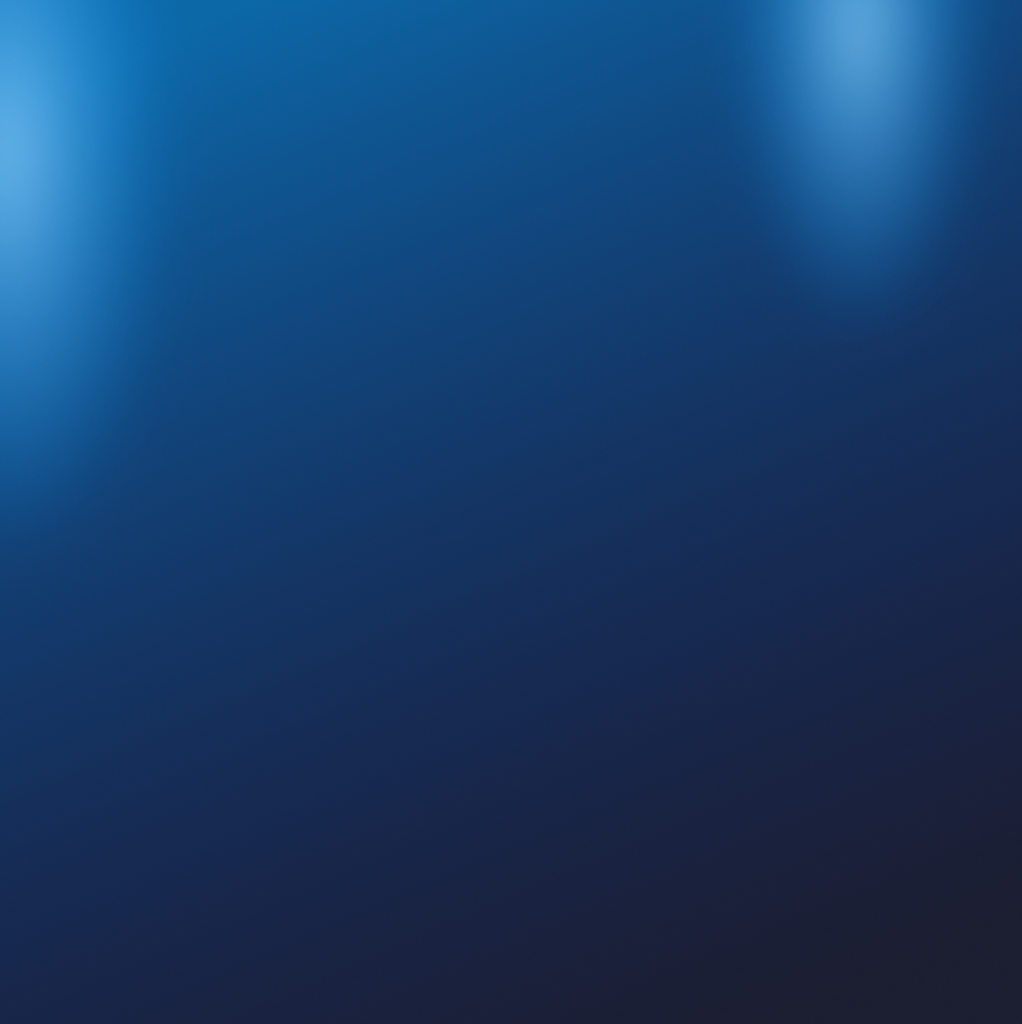
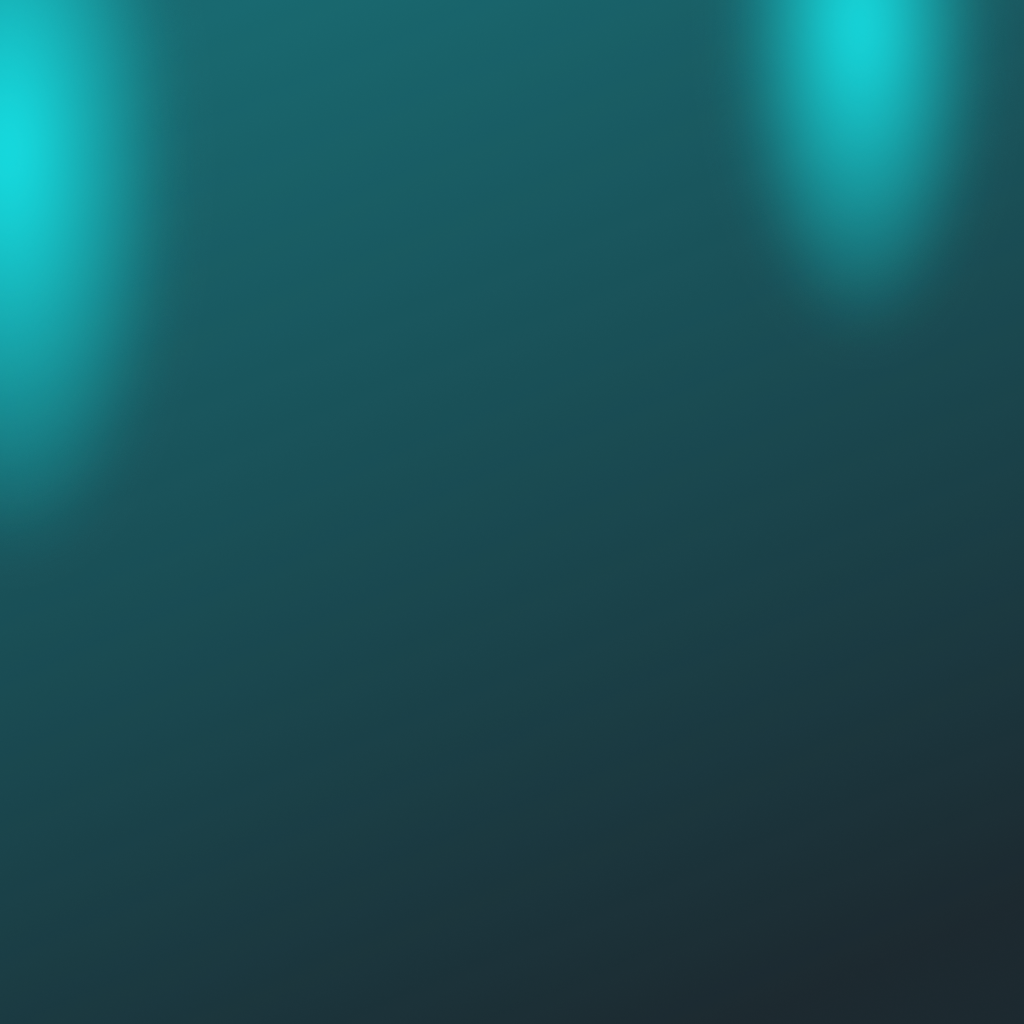
Login page BG and other changes

diff --git a/frontend/src/views/CompilanceBuilders/Step1/Step1.js b/frontend/src/views/CompilanceBuilders/Step1/Step1.js
@@ -23,6 +23,7 @@ import withReactContent from 'sweetalert2-react-content';
 
 // ** Modals
 import SelectFramewroksModal from "../modals/SelectFramewroksModal";
+import CompliancePrioritiesList from "../modals/CompliancePrioritiesList";
 
 // ** PNG Icons
 import infoIcon from "assets/img/info.png";
@@ -50,6 +51,7 @@ const Step1 = React.forwardRef((props, ref) => {
 
   // ** States
   const [modalOpen, setModalOpen] = useState(false)
+  const [openSvdPriority, setOpenSvdPriority] = useState(false);
   const [currentStep] = useState(1)
   const [compliance, setCompliance] = useState([])
   const [tiles, setTiles] = useState([]);
@@ -64,6 +66,14 @@ const Step1 = React.forwardRef((props, ref) => {
 
   const closeModal = () => {
     setModalOpen(false)
+  }
+
+  const openSvdPriorityModal = () => {
+    setOpenSvdPriority(true);
+  }
+
+  const closeSvdPriority = () => {
+    setOpenSvdPriority(false);
   }
 
   useEffect(() => {
@@ -406,11 +416,28 @@ const Step1 = React.forwardRef((props, ref) => {
     })
   }
 
+  const hasCompliancePriorities = companyComplianceControls?.companyComplianceControlData?.compliancePriorities?.length > 0 ? true : false;
   return (<>
     <div className="text-center buttons mt-3">
-      <button type="button" className="btnprimary" onClick={() => openModal()}>
+      <button
+        type="button"
+        onClick={() => openModal()}
+        className={classnames("btnprimary", {
+          "mr-2": hasCompliancePriorities
+        })}
+      >
         Select Framework
       </button>
+
+      {hasCompliancePriorities ? (
+        <button
+          type="button"
+          className="btnprimary ms-2"
+          onClick={() => openSvdPriorityModal()}
+        >
+          Saved Priorities
+        </button>
+      ): null}
     </div>
 
     <Row className="justify-content-center mt-3">
@@ -478,6 +505,12 @@ const Step1 = React.forwardRef((props, ref) => {
       handleSetTiles={handleSetTiles}
       frameworkItems={store?.frameworkItems}
       updateComplianceTiles={updateComplianceTiles}
+    />
+
+    <CompliancePrioritiesList
+      open={openSvdPriority}
+      closeModal={closeSvdPriority}
+      compliancePriorities={companyComplianceControls?.companyComplianceControlData?.compliancePriorities || []}
     />
   </>)
 })

diff --git a/frontend/src/views/CompilanceBuilders/modals/CompliancePrioritiesList.js b/frontend/src/views/CompilanceBuilders/modals/CompliancePrioritiesList.js
@@ -1,0 +1,71 @@
+// ** React Imports
+import React, { useCallback } from "react";
+
+// ** Reactstrap Imports
+import { Button, Table } from "reactstrap";
+import { Modal } from "react-bootstrap";
+
+// ** Utils
+import { getFormatDate } from "utility/Utils";
+
+const CompliancePrioritiesList = ({
+  open,
+  closeModal,
+  compliancePriorities = []
+}) => {
+  const handleReset = useCallback(() => {
+    closeModal();
+  }, [closeModal])
+
+  const handleModalOpen = () => {
+  }
+  
+  return (
+    <Modal
+      centered
+      size="lg"
+      show={open}
+      backdrop="static"
+      onShow={handleModalOpen}
+      className="UpdateUserPopup modal-design"
+      aria-labelledby="example-modal-sizes-title-lg"
+    >
+      <Modal.Header>
+        <span
+          className="modal-title col-sm-12"
+          id="example-modal-sizes-title-lg"
+        >
+          <h3 className="mb-0 mt-0">Saved Priorities</h3>
+        </span>
+        <Button
+          type="button"
+          className="Close-button d-flex align-item-center justify-content-center"
+          onClick={handleReset}
+        >
+          ×
+        </Button>
+      </Modal.Header>
+
+      <Modal.Body>
+        <Table>
+          <thead>
+            <tr>
+              <th>Name</th>
+              <th>Created At</th>
+            </tr>
+          </thead>
+          <tbody>
+            {compliancePriorities.map((item, index) => (
+              <tr key={index}>
+                <td className="text-white">{item?.name}</td>
+                <td>{item?.createdAt ? getFormatDate(item.createdAt, "DD-MM-YYYY HH:mm"): ""}</td>
+              </tr>
+            ))}
+          </tbody>
+        </Table>
+      </Modal.Body>
+    </Modal>
+  )
+}
+
+export default CompliancePrioritiesList;

diff --git a/frontend/src/views/projects/EditProject.js b/frontend/src/views/projects/EditProject.js
@@ -145,7 +145,11 @@ const EditProject = () => {
       const involvedPartiesArr =
         store.projectItem?.involved_parties?.length > 0 &&
         store.projectItem?.involved_parties?.map((involved) => {
-          return { label: involved?.user_name, value: involved?._id };
+          return {
+            // label: involved?.user_name,
+            label: `${`${involved?.first_name} ${involved?.last_name}`?.trim()} ${involved?.role_id?.name ? `(${involved?.role_id?.name})` : ""}`,
+            value: involved?._id
+          };
         });
       if (authUser?.role_id?._id === superAdminRole) {
         setCompanyVal({
@@ -202,7 +206,8 @@ const EditProject = () => {
     }
     if (userStore?.userItems?.length > 0) {
       const list = userStore?.userItems?.map((item) => ({
-        label: item?.user_name,
+        // label: item?.user_name,
+        label: `${`${item?.first_name} ${item?.last_name}`?.trim()} ${item?.role_id?.name ? `(${item?.role_id?.name})` : ""}`,
         value: item?._id,
       }));
       setInvolvedParties(() => list);

diff --git a/frontend/src/views/ram/ProjectDetailsCard.js b/frontend/src/views/ram/ProjectDetailsCard.js
@@ -66,7 +66,9 @@ const ProjectDetailsCard = (props) => {
   const currentUserIsAdmin = (authUserItem?.role_id?.priviledge === adminPriviledgeType) || false;
 
   const frameworks = riskData.framework_id?.map((framework) => framework?.label)
-  const InvolvedParties = riskData.involved_parties?.map((party) => party?.user_name)
+  const InvolvedParties = riskData.involved_parties?.map((party) => {
+    return `${`${party?.first_name} ${party?.last_name}`?.trim()} ${party?.role_id?.name ? `(${party?.role_id?.name})` : ""}`
+  })
 
   const [likelihood, setLikelihood] = useState(riskData?.likelyhood || 0);
   const [impactAssessment, setImpactAssessment] = useState(riskData?.impact_assessment || 0)

diff --git a/backend/services/projects.service.js b/backend/services/projects.service.js
@@ -64,7 +64,12 @@ exports.getProject = async function (id) {
       .populate({ path: "company_id" })
       .populate({ path: "user_id" })
       .populate({ path: "framework_id" })
-      .populate({ path: "involved_parties" })
+      .populate({
+        path: "involved_parties",
+        populate: {
+          path: "role_id"
+        }
+      })
       .populate({ path: "submitted_by" })
       .populate({ path: "company_compliance_control_id" })
       .populate({ path: "users_ai_description.user_id" });

diff --git a/frontend/src/views/projects/AddProject.js b/frontend/src/views/projects/AddProject.js
@@ -144,7 +144,8 @@ const AddProject = () => {
 
     if (userStore?.userItems?.length > 0) {
       const list = userStore?.userItems?.map((item) => ({
-        label: item?.user_name,
+        // label: item?.user_name,
+        label: `${`${item?.first_name} ${item?.last_name}`?.trim()} ${item?.role_id?.name ? `(${item?.role_id?.name})` : ""}`,
         value: item?._id
       }))
 
